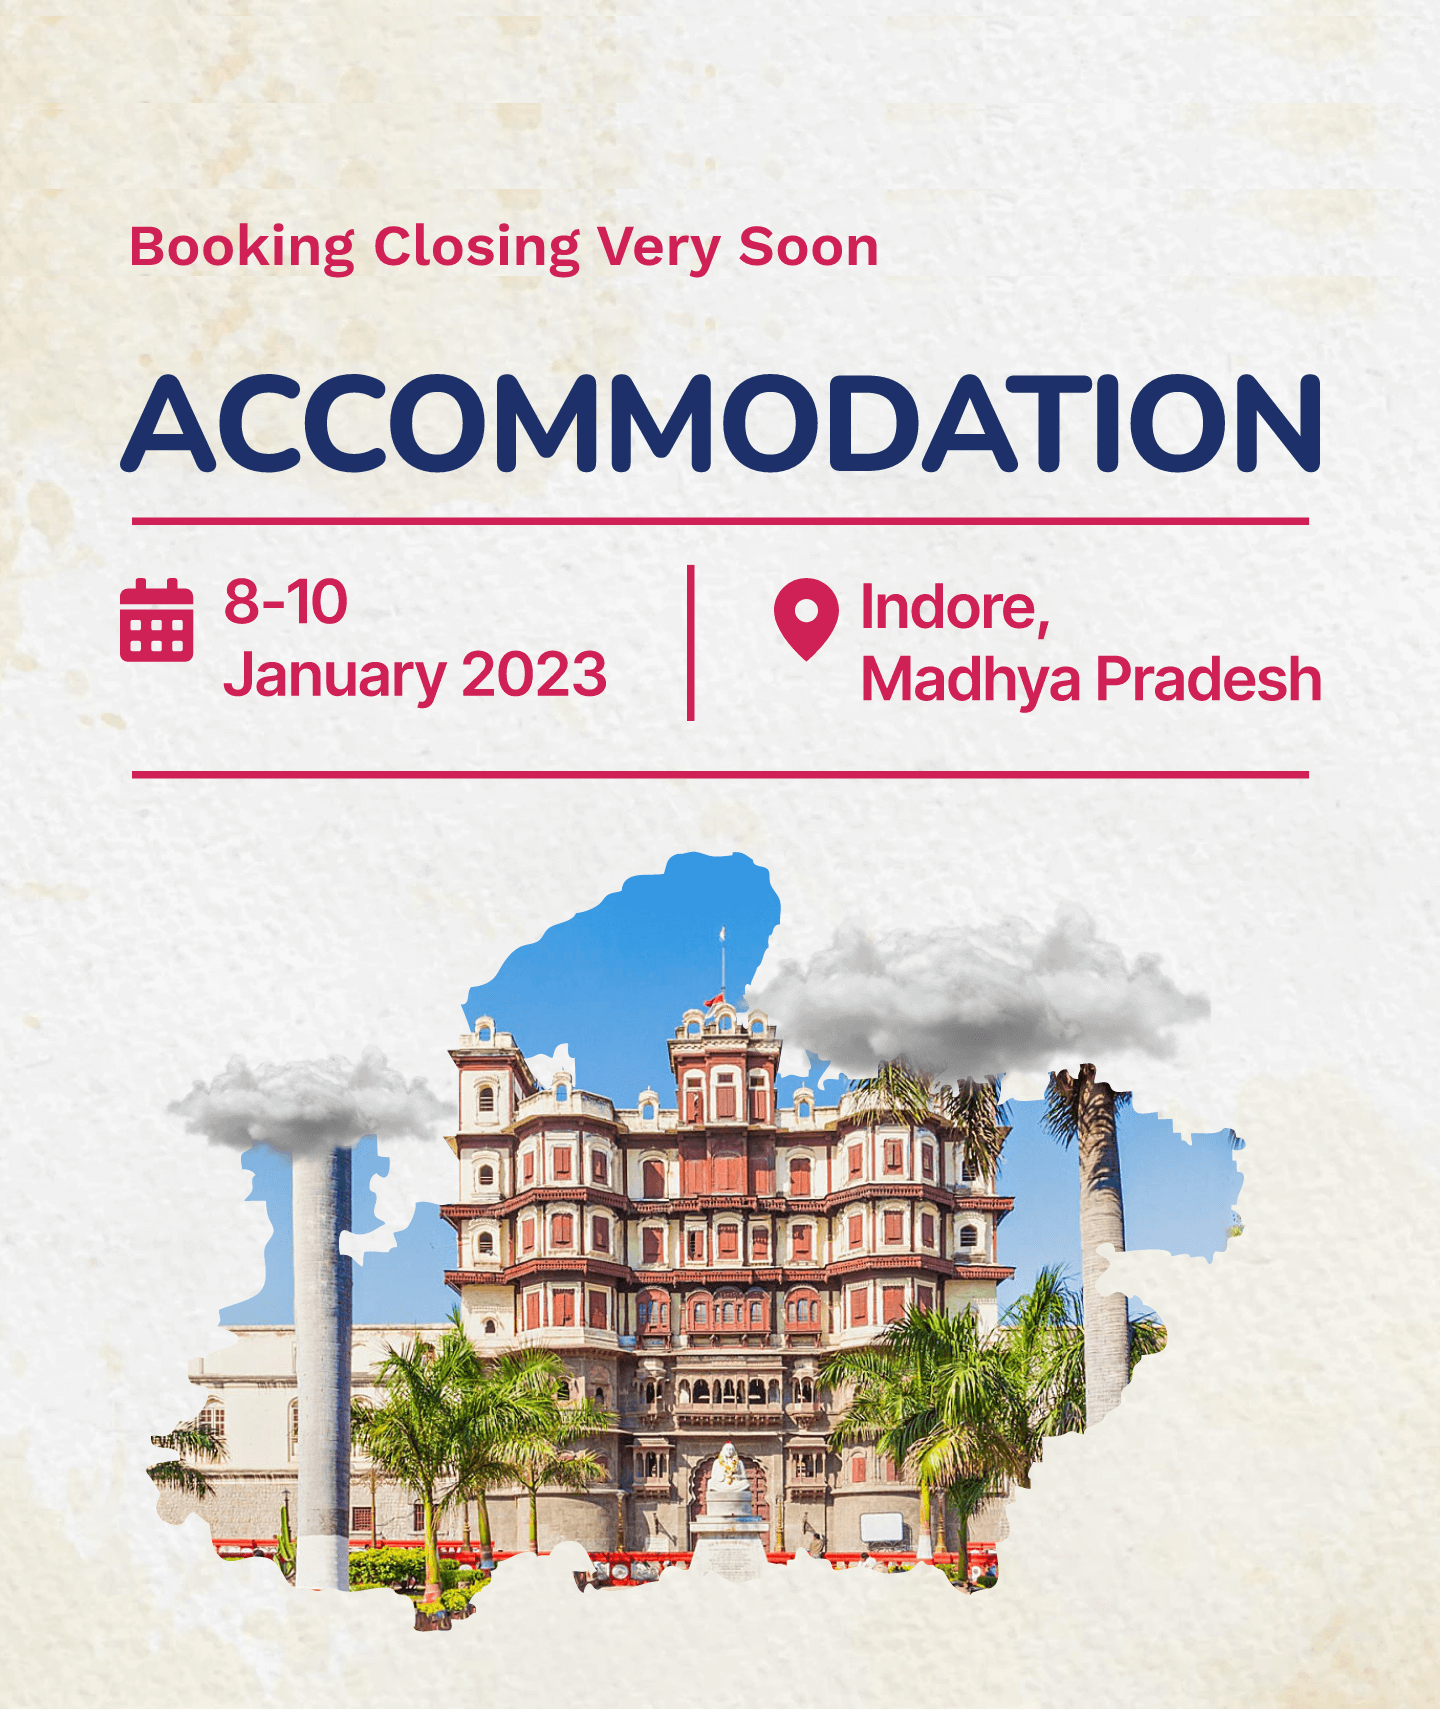
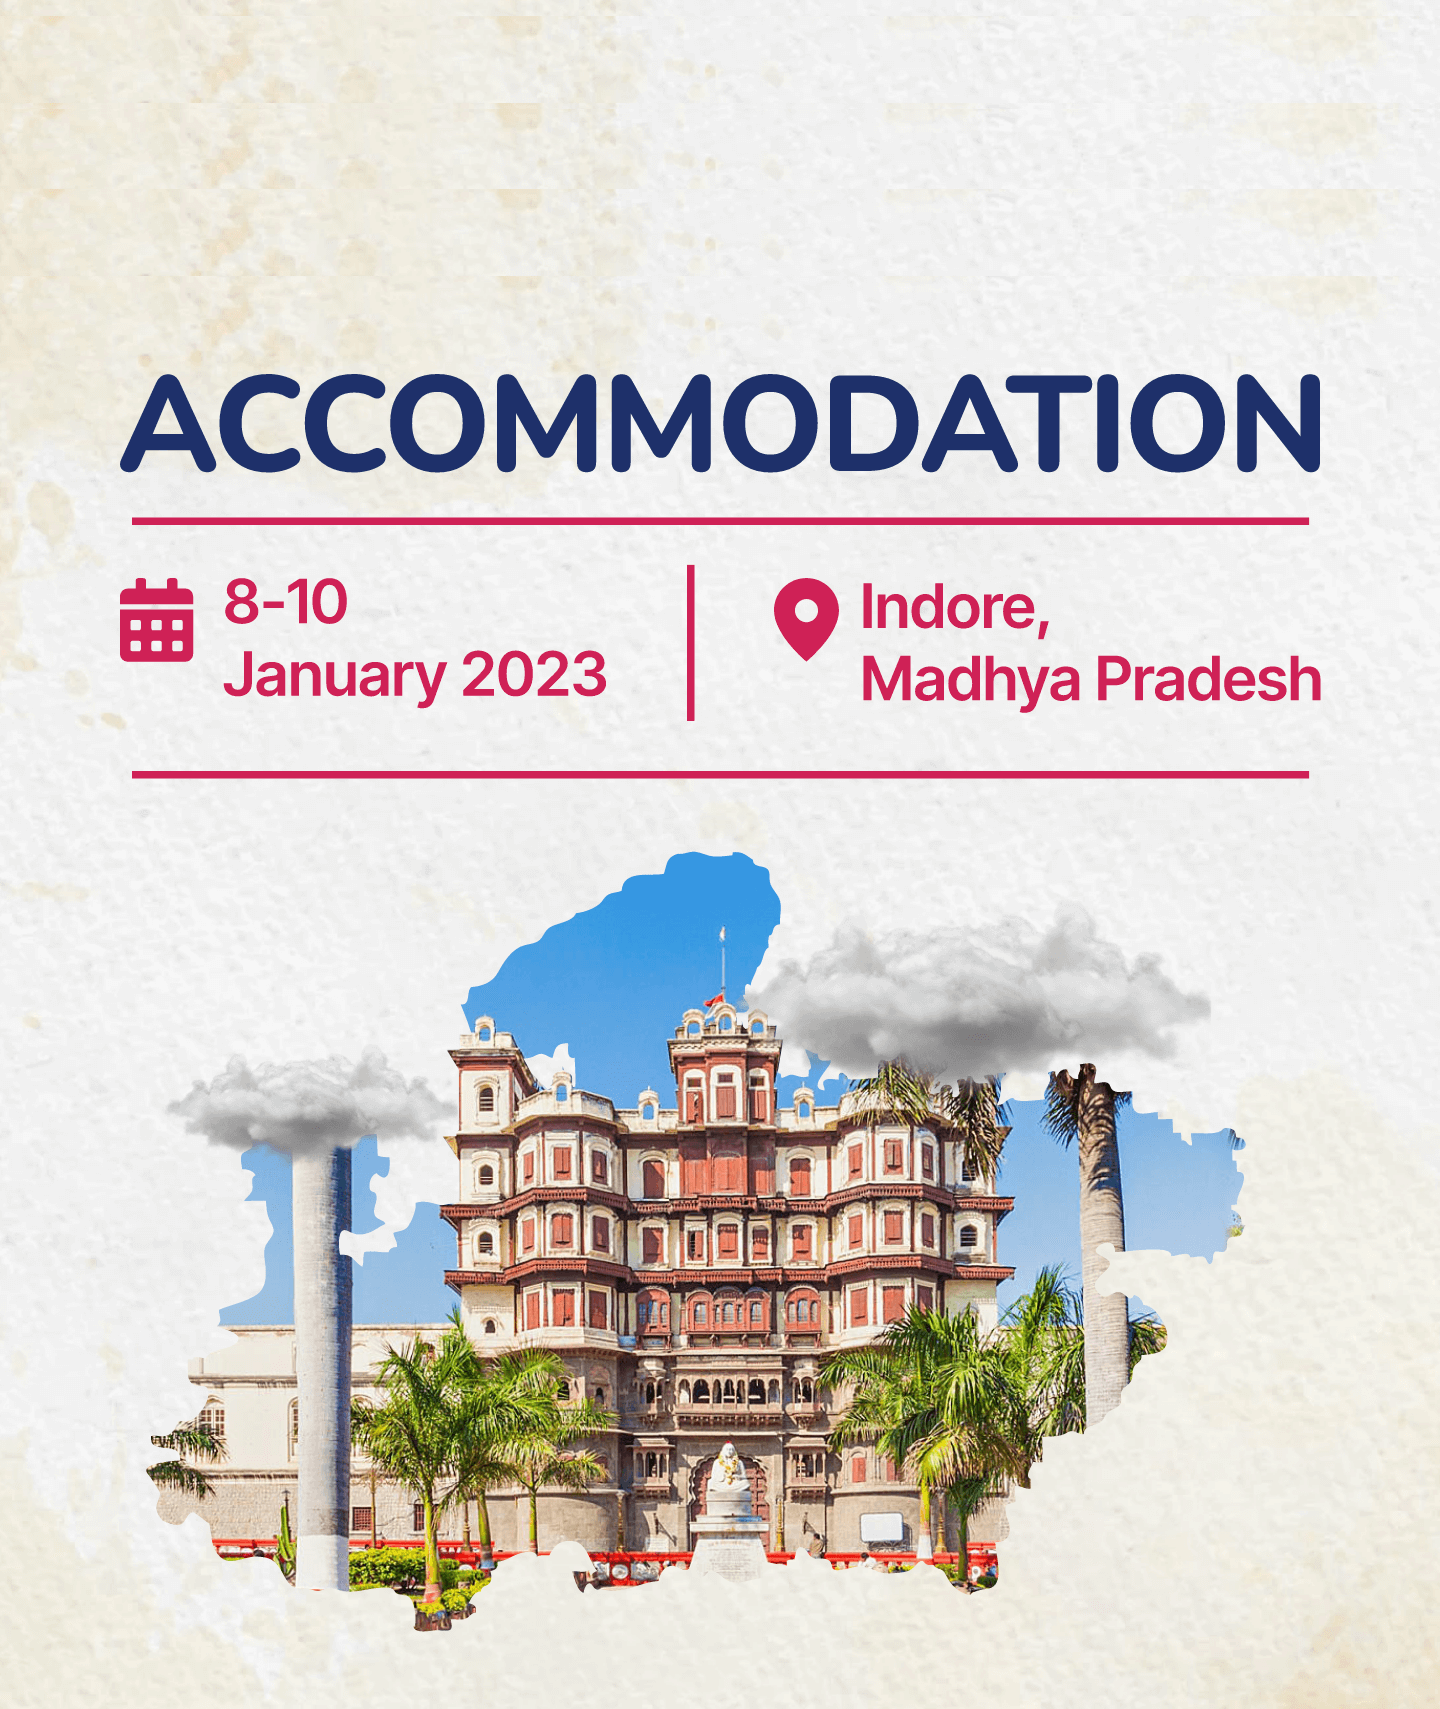
changes

Changed region(s): [[0.0938, 0.124, 0.625, 0.1861]]

diff --git a/public/css/frontend.css b/public/css/frontend.css
@@ -2525,3 +2525,41 @@ label.filter_label {
   right: 10px !important;
   top: 10px !important;
 }
+
+.animate-charcter{
+  text-transform: uppercase;
+  background-image: linear-gradient(
+    -225deg,
+    #231557 0%,
+    #44107a 29%,
+    #ff1361 67%,
+    #fff800 100%
+  );
+  background-size: auto auto;
+  background-clip: border-box;
+  background-size: 200% auto;
+  color: #fff;
+  background-clip: text;
+  text-fill-color: transparent;
+  -webkit-background-clip: text;
+  -webkit-text-fill-color: transparent;
+  animation: textclip 2s linear infinite;
+  display: inline-block;
+  font-size: 26px;
+  font-weight: 600;
+  position: absolute;
+  top: 30%;
+  left: 8.5%;
+}
+
+@keyframes textclip {
+  to {
+    background-position: 200% center;
+  }
+}
+@media only screen and (max-width: 600px) {
+  .animate-charcter{
+    font-size: 20px;
+    top: 12%;
+  }
+}

diff --git a/Modules/Frontend/Resources/views/index.blade.php b/Modules/Frontend/Resources/views/index.blade.php
@@ -7,6 +7,7 @@
         <img src="{{ url('images/mobile-slider-2_new.png') }}" alt="mobile-slider-2" class="d-hide" />
 
         <!-- <img src="{{ url('images/big-booking-closing-very-soon.gif') }}" alt="Booking Closing Very Soon" class="very-soon-gif m-hide" /> -->
+        <h3 class="animate-charcter"> Booking Closing Very Soon</h3>
         <div class="banner-book-now">
             <p>MP Government Offers FREE Home Stay</p>
             <a href="{{ url('/search') }}" class="primary-button sm">Book Now</a>
